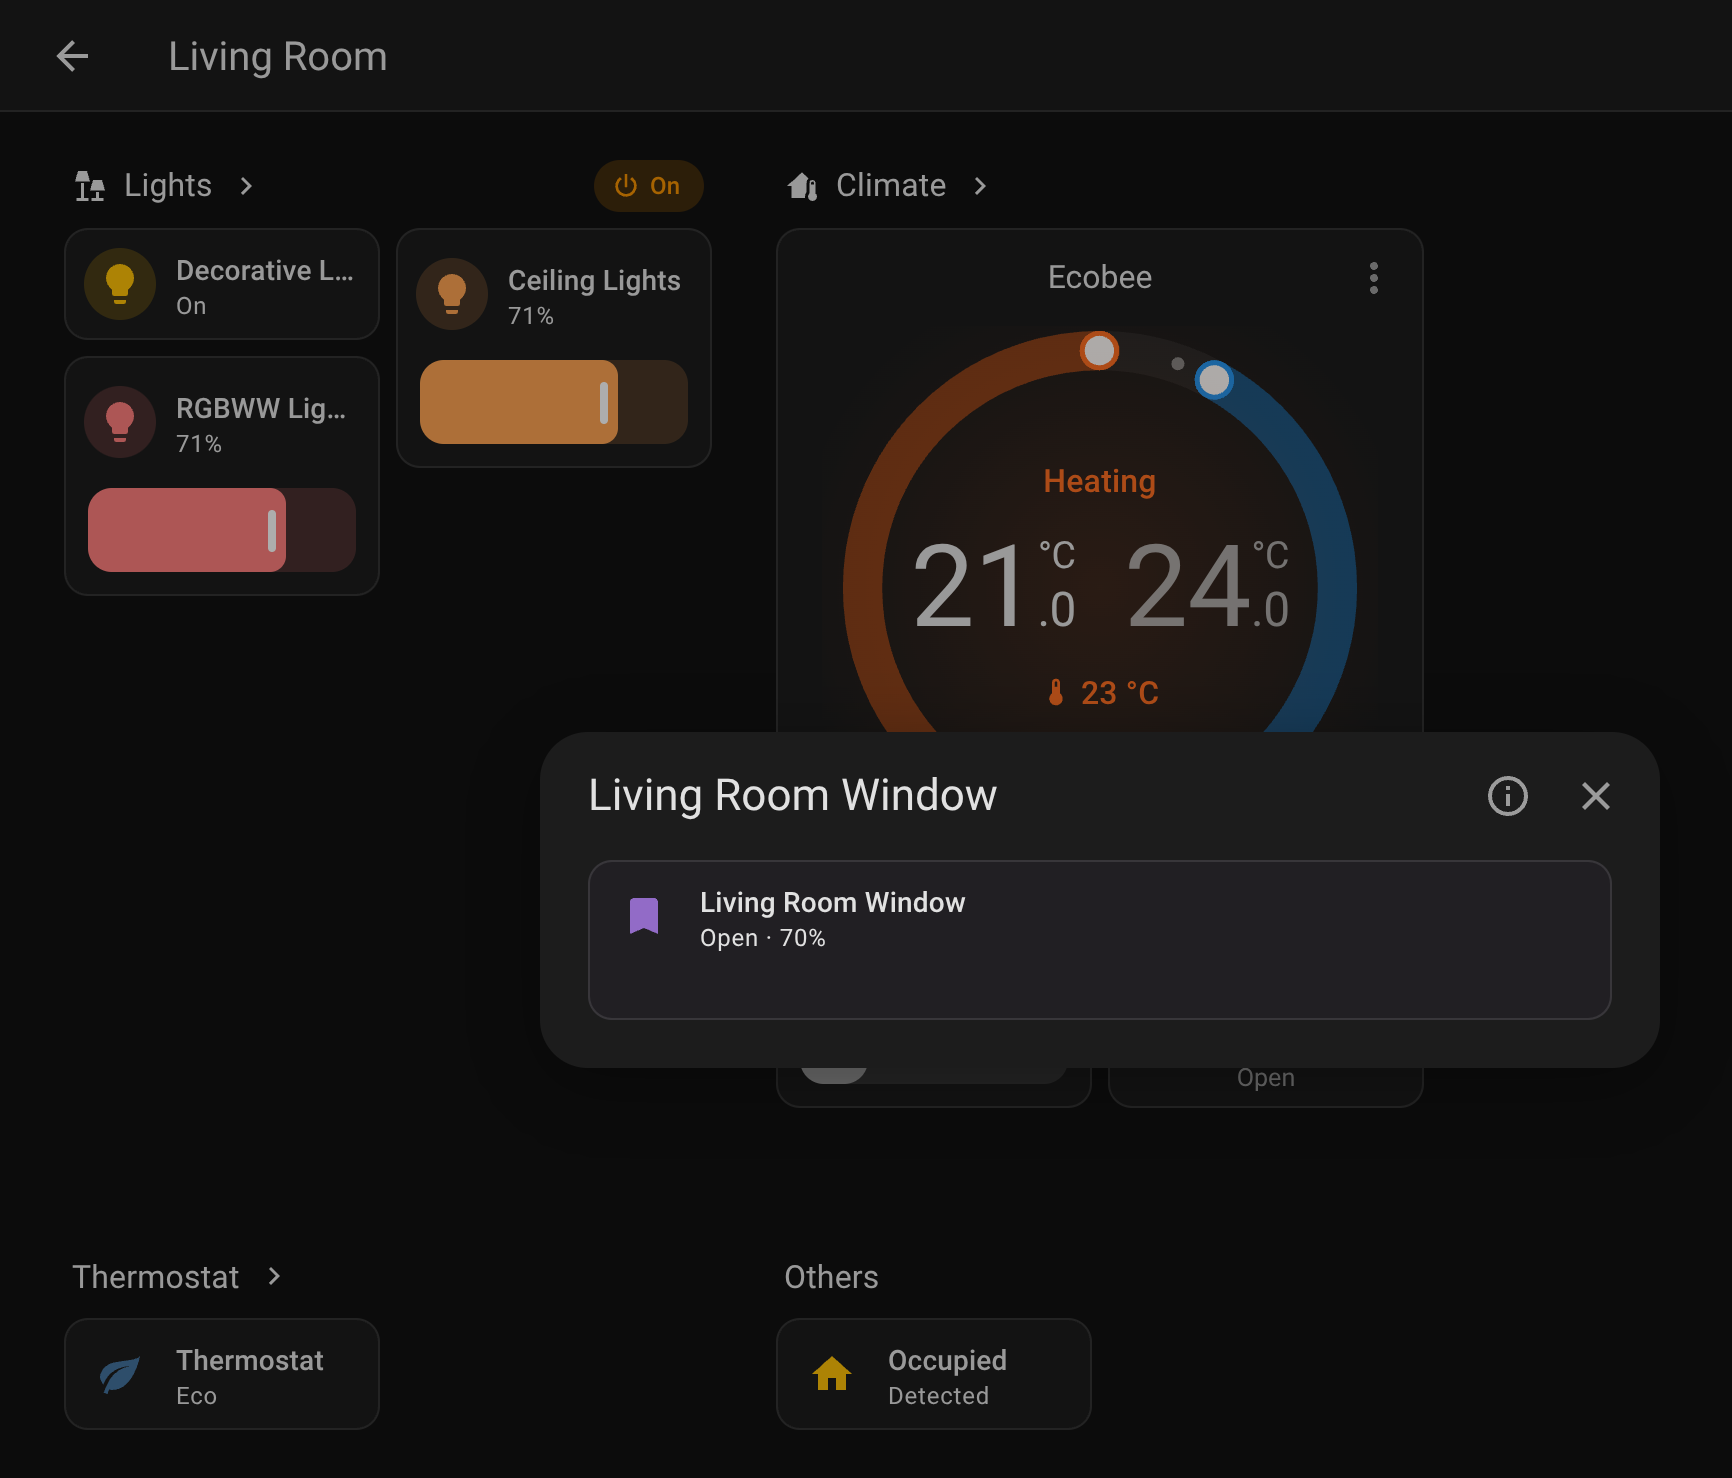
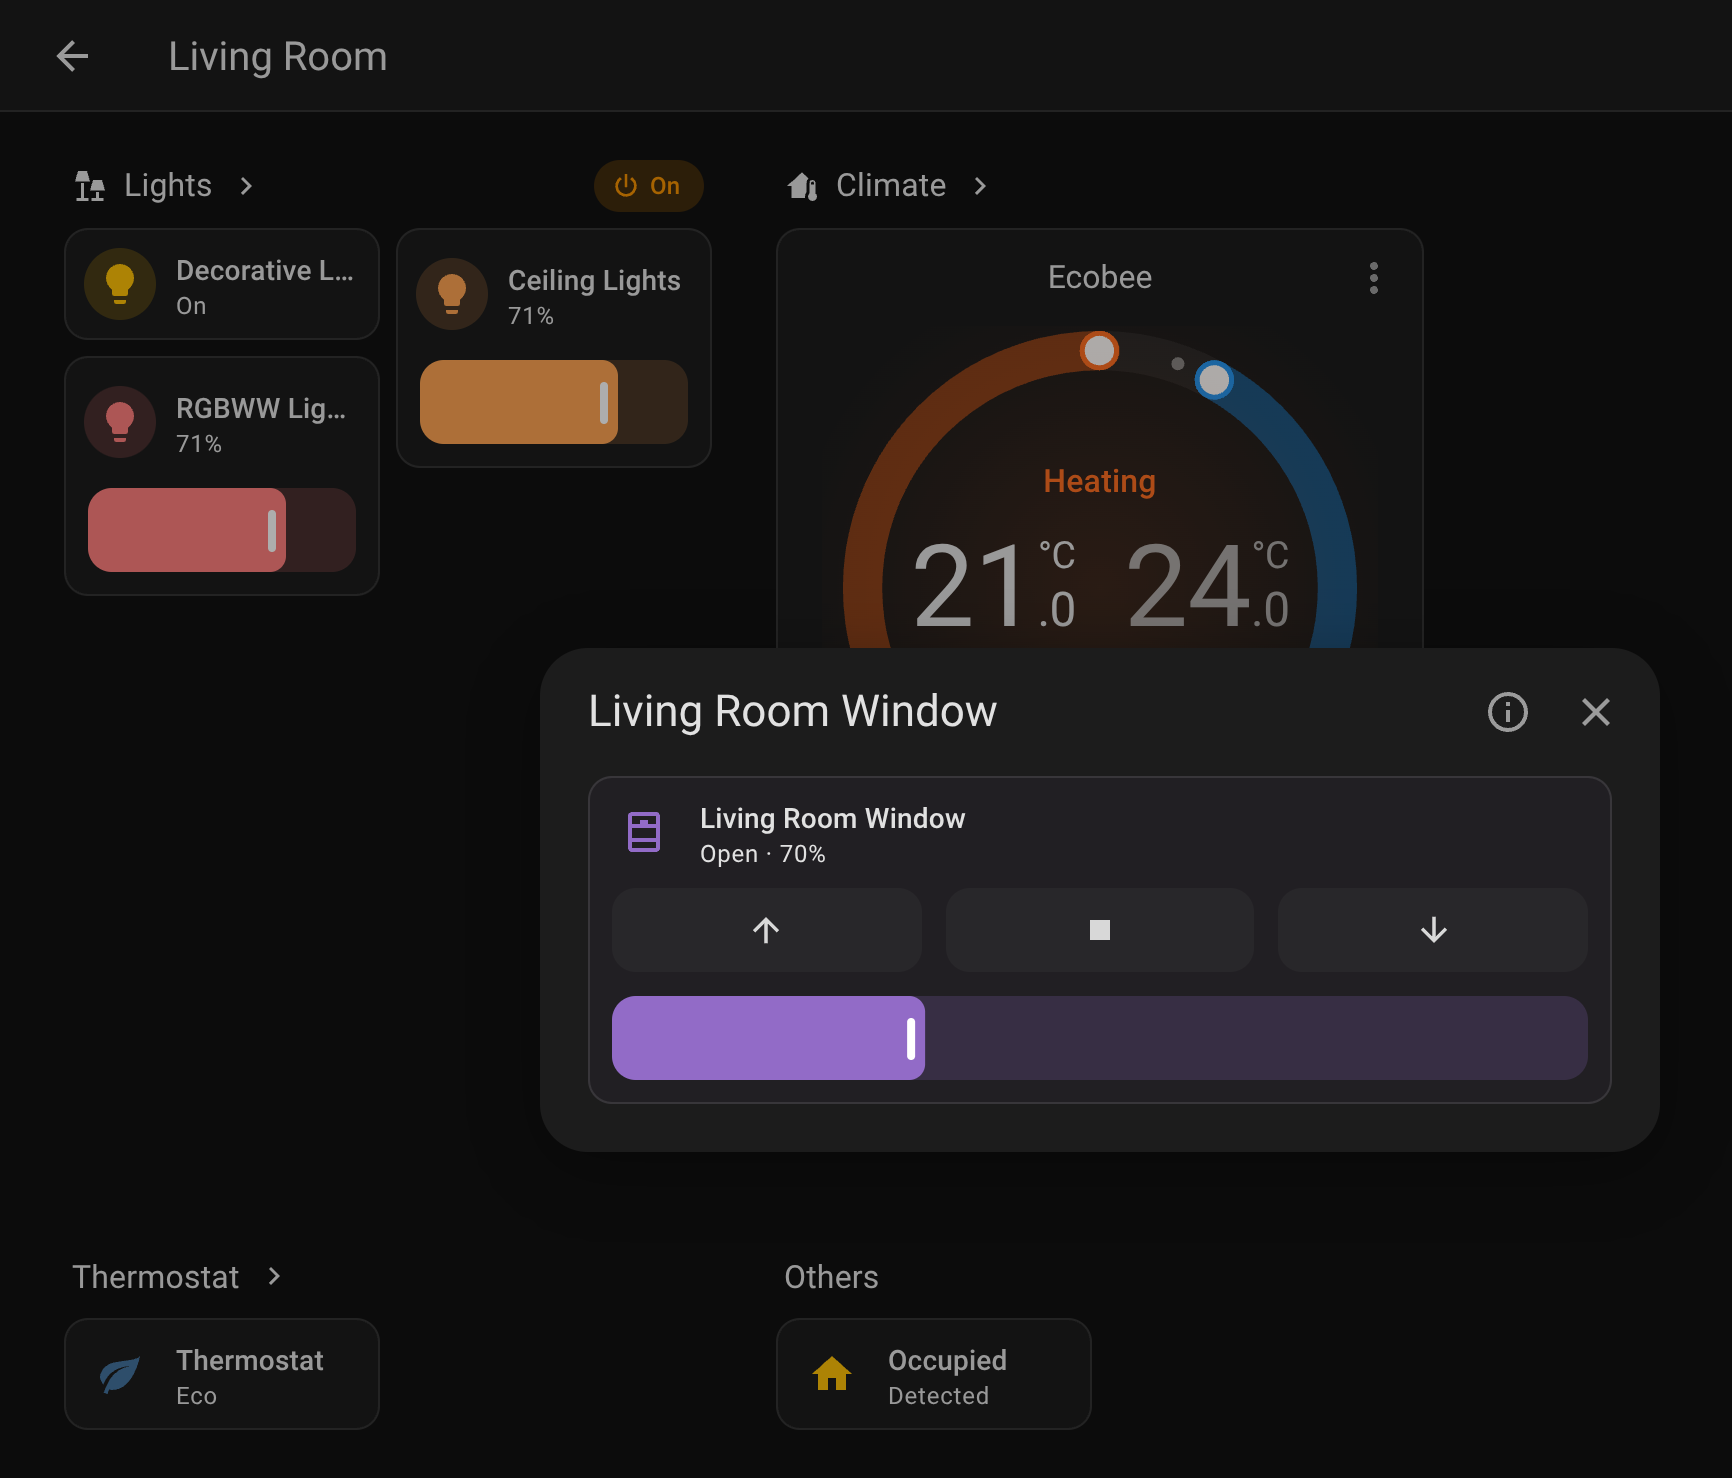
docs: review findings – examples match the screenshots, precise option texts
- Area layout example is the configuration of the screenshot (area server)
- Popup screenshot shows the cover controls (needs the popup context fix)
- Option descriptions of lazy_render, debug, strip_area_names; sort and
  compact; card rules only in the favorites of the overview page
- Editor page: no claim that deleting asks; form fields of a section
- Area states: deep orange, opening sensors, own states are chips

diff --git a/docs/area-layouts.md b/docs/area-layouts.md
@@ -20,23 +20,15 @@ card names ("Server CPU load" → "CPU load"). [Card rules](card-rules.md) set t
 strategy:
   type: custom:overview-plus
   area_overrides:
-    proxmox:                         # area id
-      badges: false                  # or a list of entity ids; default: area temperature/humidity
+    server:                          # area id
+      badges: [binary_sensor.server_problem]   # false = none; default: area temperature/humidity
       sections:
-        - title: Hypervisor
+        - title: Host
           icon: mdi:server
-          match: { label: virt-hypervisor }
-          layout: devices
-        - title: VMs & containers
+          match: { label: host }
+        - title: Virtual machines
           icon: mdi:cube-outline
-          match: { label: virt-guest }
-          layout: compact
-          primary: { domain: binary_sensor, device_class: running }
-        - title: Exporter
-          icon: mdi:access-point-network
-          match: { integration: mqtt, manufacturer: Proxmox }
-          entities:
-            include_domains: [sensor, binary_sensor]
+          match: { label: vm }
       show_default_sections: false   # default
       show_other_devices: true       # default
       show_automations: true         # default
@@ -109,7 +101,8 @@ administrators; for other users the heading has no action.
 - `devices`: a heading per device with its entities.
 - `compact`: one tile per device showing its primary entity, named after the device, opening the
   device page. The primary entity is chosen by `primary` ([match spec](reference.md#match-specifications))
-  or automatically (running/connectivity/power sensor, switch, binary sensor, sensor).
+  or automatically (running/connectivity/power sensor, switch, binary sensor, sensor), e.g.
+  `primary: { domain: binary_sensor, device_class: running }`.
 - `table`: one entities card per device.
 
 ## Which entities
@@ -138,7 +131,8 @@ The states are the ones Home Assistant stores (`off`), not the translated text (
 `sort` orders the entities of a section group by group – each in the first group it fits, the rest after
 them; without `sort`, and within a group, Home Assistant's order applies as in the built-in Overview. A
 group has a `domain`, a `device_class` or both (one value or a list); a plain string is a domain. In
-layouts by device, devices keep their order and `sort` applies within each device:
+the `devices` and `table` layouts, devices keep their order and `sort` applies within each device;
+`compact` ignores it:
 
 ```yaml
           sort:
@@ -177,8 +171,8 @@ card:
 
 ```yaml
       tile:
-        entities: [sensor.pve_cpu, sensor.pve_memory]   # shown in this order
-        show_names: true                                 # "CPU 12 % · RAM 41 %"
-        alert_entities: [binary_sensor.vm_db_running]    # badge while one of them is on
+        entities: [sensor.server_cpu_load, sensor.server_memory_used]   # shown in this order: "23% · 61%"
+        show_names: true                                 # with the entity names
+        alert_entities: [binary_sensor.server_problem]   # badge while one of them is on
         alert_classes: [problem]
 ```

diff --git a/README.md b/README.md
@@ -5,8 +5,8 @@
 [![CI](https://github.com/financelurker/ha-overview-plus/actions/workflows/ci.yml/badge.svg)](https://github.com/financelurker/ha-overview-plus/actions/workflows/ci.yml)
 [![License](https://img.shields.io/github/license/financelurker/ha-overview-plus)](https://github.com/financelurker/ha-overview-plus/blob/main/LICENSE)
 
-**The Home Assistant Overview, configurable.** Overview Plus is a dashboard strategy that builds the same
-dashboard as the built-in Overview – overview page, one view per area, media players and devices – and
+**The Home Assistant Overview, configurable.** Overview Plus is a dashboard strategy that builds a dashboard
+like the built-in Overview – overview page, one view per area, media players and devices – and
 lets you change what the built-in one does not let you change. It keeps up with your installation by
 itself: new devices and areas appear without editing the dashboard.
 
@@ -37,7 +37,7 @@ itself: new devices and areas appear without editing the dashboard.
 - **[Popup on tap](https://github.com/financelurker/ha-overview-plus/blob/main/docs/card-rules.md#popup-on-tap):**
   a card of your choice instead of the entity's info dialog.
 - **[Visual editor](https://github.com/financelurker/ha-overview-plus/blob/main/docs/editor.md):**
-  everything in the dashboard's editor, with dropdowns filled from your installation.
+  set it up in the dashboard's editor, with dropdowns filled from your installation.
 
 <table>
 <tr>
@@ -51,13 +51,11 @@ itself: new devices and areas appear without editing the dashboard.
 **It fits if**
 
 - you like the built-in Overview, but want to change parts of it: other cards for some entities, own
-  sections in some areas, the states of your rooms at a glance;
-- the dashboard should keep up with new devices and areas by itself;
-- you run Home Assistant 2026.10 or newer.
+  sections in some areas, the states of your rooms at a glance.
 
 **It does not fit if**
 
-- you want to place every card yourself – use a regular dashboard for that.
+- you want to place every card yourself.
 
 ## Installation
 
@@ -82,7 +80,7 @@ as type *Dashboard*.
 ## Getting started
 
 1. Settings → Dashboards → **Add dashboard** → *Community dashboards* → **Overview Plus**. Without
-   changes it shows the same as the built-in Overview.
+   configuration it looks like the built-in Overview.
 2. Open the dashboard → ✏ (edit) to change it in the [editor](https://github.com/financelurker/ha-overview-plus/blob/main/docs/editor.md).
    Do not click **Take control** there: it turns the dashboard into a static copy that Overview Plus no
    longer updates.

diff --git a/docs/area-states.md b/docs/area-states.md
@@ -2,7 +2,7 @@
 
 [← Back to the overview](../README.md)
 
-The area tiles on the overview page show what is going on in a room: a **tinted tile** (e.g.
+The area tiles on the overview page can show what is going on in a room: a **tinted tile** (e.g.
 occupied) and **colored chips** above the room icon (e.g. heating, lights on, window open).
 
 <table>
@@ -30,9 +30,9 @@ strategy:
 |---|---|---|
 | `occupied` | an occupancy or presence sensor is on | tinted tile, blue |
 | `problem` | a problem, leak, smoke, gas, CO or safety sensor is on | chip, red |
-| `heating` / `cooling` | a thermostat is heating / cooling (`hvac_action`) | chip, orange / light blue |
+| `heating` / `cooling` | a thermostat is heating / cooling (`hvac_action`) | chip, deep orange / light blue |
 | `humidifying` / `drying` | a humidifier is humidifying / drying (`action`) | chip, teal / brown |
-| `window_open` | a window, door or garage door sensor is on | chip, amber |
+| `window_open` | a window, door, opening or garage door sensor is on | chip, amber |
 | `unlocked` | a lock is unlocked or open | chip, orange |
 | `lights_on` | a light is on | chip, yellow |
 | `media_playing` | a media player is playing (icon: TV, speaker …) | chip, purple |
@@ -48,6 +48,18 @@ strategy:
   and shows the same temperature). An area whose tile is set to `display_type: picture` / `camera` or
   has `features` keeps the area card – without area states.
 
+<details>
+<summary>Screenshot: area states in the editor</summary>
+
+<table>
+<tr>
+<td width="50%"><img src="images/editor-area-states-light.png" alt="Editor: area states, light theme"></td>
+<td width="50%"><img src="images/editor-area-states-dark.png" alt="Editor: area states, dark theme"></td>
+</tr>
+</table>
+
+</details>
+
 ## Own states
 
 `{ name, entity, state, icon, color, style }`, e.g. a washing machine that is `running`:
@@ -61,19 +73,8 @@ strategy:
       color: blue
 ```
 
+- Shown as a chip unless `style: tile`.
 - `state` is `on` if not set (also several: `state: [heat, boost]`); `attribute:` compares an
   attribute instead of the state.
 - Instead of `entity:`, `domain:` (and `device_classes:`) searches the area like a preset.
 - Own states are set in YAML; the editor lists them so they can be moved or deleted.
-
-<details>
-<summary>Screenshot: area states in the editor</summary>
-
-<table>
-<tr>
-<td width="50%"><img src="images/editor-area-states-light.png" alt="Editor: area states, light theme"></td>
-<td width="50%"><img src="images/editor-area-states-dark.png" alt="Editor: area states, dark theme"></td>
-</tr>
-</table>
-
-</details>

diff --git a/docs/editor.md b/docs/editor.md
@@ -2,8 +2,7 @@
 
 [← Back to the overview](../README.md)
 
-Open the dashboard → ✏ (edit). Everything is set in the visual editor of the dashboard, in three
-collapsible parts:
+The visual editor of the dashboard has three collapsible parts:
 
 <table>
 <tr>
@@ -17,16 +16,17 @@ collapsible parts:
   *Area states*. See [Overview page](overview-page.md) and [Area states](area-states.md).
 - **Area layouts:** every area with its own layout is a collapsible block with a short summary: badges,
   the toggles for the default sections, remaining devices and automations, the tile on the overview page
-  and the sections. See [Area layouts](area-layouts.md).
+  and the sections – each with *Refine selection*, *Entity filter*, *Primary entity*, *Hide while in
+  state* and *Order* as form fields. See [Area layouts](area-layouts.md).
 - **General:** the card rules and the options for the whole dashboard. See [Card rules](card-rules.md).
 
 Integration, domain, device class, manufacturer and model are dropdowns filled from your own
-installation; own values can be typed. Lists are ordered with the ↑/↓ buttons; deleting asks first.
+installation; own values can be typed. Lists are ordered with the ↑/↓ buttons.
 
 Only two things are YAML in the editor: the options specific to a replacement card (*More card
 options*, because every card type has different ones), and – only if your configuration contains one – a
-selection the form cannot show, such as an either/or list. The full YAML view is available at any time
-(⋮ in the editor's title bar); the [reference](reference.md) lists all options.
+selection the form cannot show, such as an either/or list. The full YAML view is available at any time; the
+[reference](reference.md) lists all options.
 
 > Do not click **Take control** in that menu: it converts the dashboard into a static copy of
 > the currently generated cards, and Overview Plus no longer updates it.

diff --git a/docs/reference.md b/docs/reference.md
@@ -12,9 +12,9 @@
 | `favorite_entities`, `hide_welcome_message`, `hide_suggested_entities`, `shortcuts`, `alert_entities` | Own overview page settings (with `load_home_settings: false`), see [Overview page](overview-page.md). |
 | `summary_pages` | Pages the summaries and category headings lead to, see [Pages of the summaries](overview-page.md#pages-of-the-summaries). |
 | `area_indicators` | States shown on the area tiles, see [Area states](area-states.md). |
-| `lazy_render` | Render cards below the first screen of an area view only when they scroll into view (default `true`). |
-| `strip_area_names` | Remove the area name from card names and device headings in area views, e.g. "Living room Ceiling light" → "Ceiling light" (default `true`). |
-| `debug` | Log the generated area views and the section assignment to the browser console. |
+| `lazy_render` | Render cards below the first screen of a view only when they scroll into view (default `true`). |
+| `strip_area_names` | Remove the area name from card names and device headings in area views and the media players view, e.g. "Living room Ceiling light" → "Ceiling light" (default `true`). |
+| `debug` | Log the generated views (and the section assignment of area views) to the browser console. |
 
 ## Area layout
 

diff --git a/docs/overview-page.md b/docs/overview-page.md
@@ -5,7 +5,7 @@
 The first page of the dashboard: welcome message, favorites and suggested entities, then one tile per
 area, grouped by floor; on the right the summaries (repairs, updates, lights, media players,
 maintenance, weather …) and shortcuts. The screenshots show the Home Assistant demo integration: occupied
-rooms are tinted, chips show heating, lights and an open window ([area states](area-states.md)); the
+rooms are tinted, chips show heating, cooling, lights and an open window ([area states](area-states.md)); the
 *Server* tile shows CPU and memory instead of the temperature ([tile](area-layouts.md#tile-on-the-overview-page)).
 
 <table>
@@ -66,8 +66,8 @@ The summaries on the overview page and the category headings of an area view (*L
 strategy:
   type: custom:overview-plus
   summary_pages:
-    light: /lights-plus/overview       # any navigation path
-    security: /dashboard-alarm/0
+    light: /lights-plus/0              # any navigation path
+    security: /alarm-panel/0
 ```
 
 Keys: `light`, `climate`, `security`, `media_players`, `maintenance`, `energy`. Not set: Home

diff --git a/docs/card-rules.md b/docs/card-rules.md
@@ -2,8 +2,8 @@
 
 [← Back to the overview](../README.md)
 
-Card rules replace, adjust or hide the cards of selected entities or devices – on the overview page, in
-the area views, the media players view and the devices view. **Example:** in the default area view a rule
+Card rules replace, adjust or hide the cards of selected entities or devices – in the favorites on the
+overview page, the area views, the media players view and the devices view. **Example:** in the default area view a rule
 replaces the climate tile with a thermostat card.
 
 <table>
